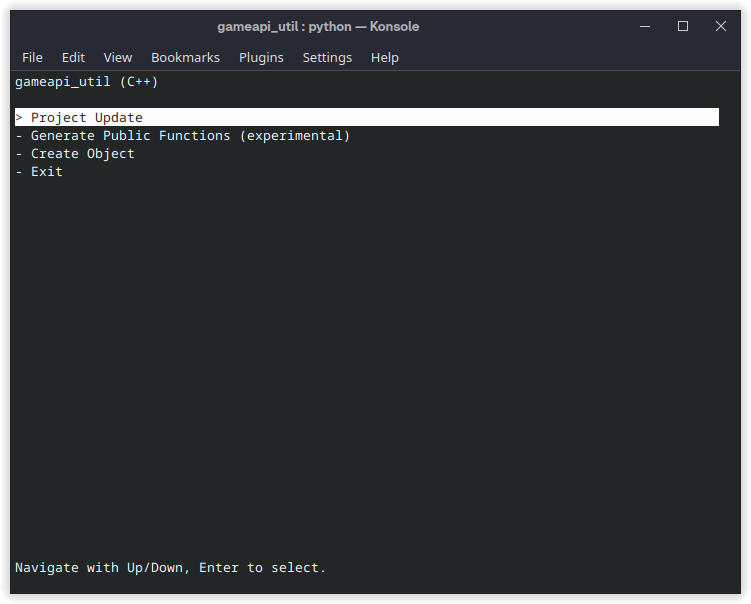
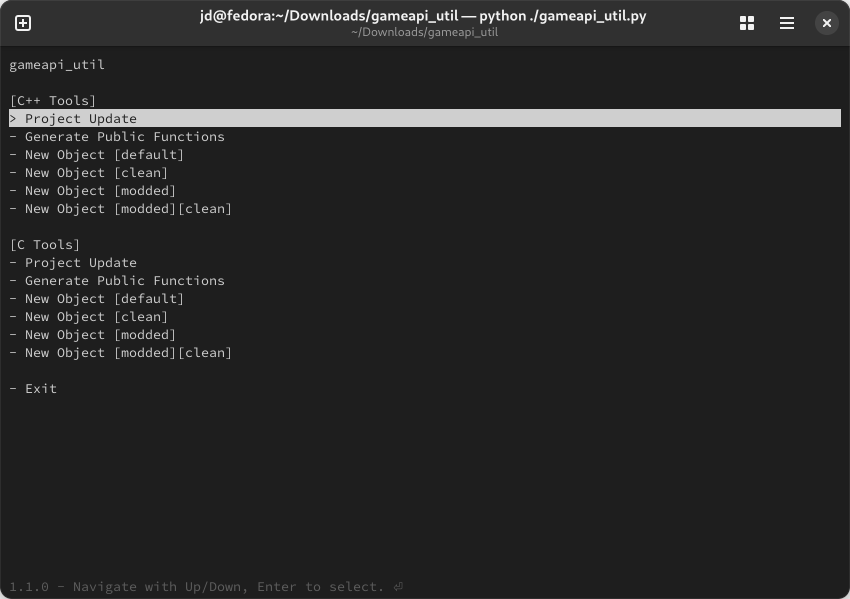
Update README & screenshots

Changed region(s): [[0.0, 0.0, 1.0, 1.0]]

diff --git a/README.md b/README.md
@@ -12,16 +12,24 @@ pip install urwid
 
 ## Default Functions
 
-- **Update All.cpp/All.hpp & CMake Project**
-  - This function generates `All.cpp` & `All.hpp` includes and `Objects.cmake`.
-  - Forward declarations are included in the header.
+- **Project Update**
+  - Generates `All.c/All.cpp`, which can be used in your Visual Studio or CMake project. This can speed up build times by compiling every object at once, instead of compiling them separately.
+  - Generates `Objects.cmake`, which can be used instead of `All.c/All.cpp`, if you'd like to build the objects separately.
 
 - **Generate public functions**
-  - This function generates `PublicFunctions.hpp`. Entity events are not included.
+  - Generates public functions for the RSDKv5U decompilation's modding API. Entity events are not included.
 
-- **Create new object**
+- **New Object** [default]
   - Creates a new object in the specified directory.
-  - After creation, you can optionally run `project_update` to generate new `All.cpp` and `All.hpp` files.
+
+- **New Object** [clean]
+  - Same as above, without any predefined entity events.
+
+- **New Object** [modded]
+  - Creates a new modded object in the specified directory.
+
+- **New Object** [modded][clean]
+  - Same as above, without any predefined entity events.
 
 ## Configuration
 `gameapi_util_cfg.py` is used for configuring various things, such as the path to your objects directory.
@@ -44,14 +52,16 @@ OBJECT_PATH = f"{GAME_PATH}/{OBJECT_PATH_NAME}"
 ```
 
 ## Extending the main menu
-You can extend the main menu with the `init` function of your configuration file. For example:
-```
+You can extend the main menu with the `init` function of your project's configuration file. For example:
+```py
 def init(app_in):
     global app
     app = app_in
 
-    app.add_option('Validate Objects', ens_obj_valid)
-    app.add_option('Check Status', do_status_check)
+    app.add_label("[Custom Tools]")
+    app.add_option('Validate Objects', object_validity_check)
+    app.add_option('Check Status', project_status_check)
+    app.spacer()
 # init -> (app_in)
 ```
 
